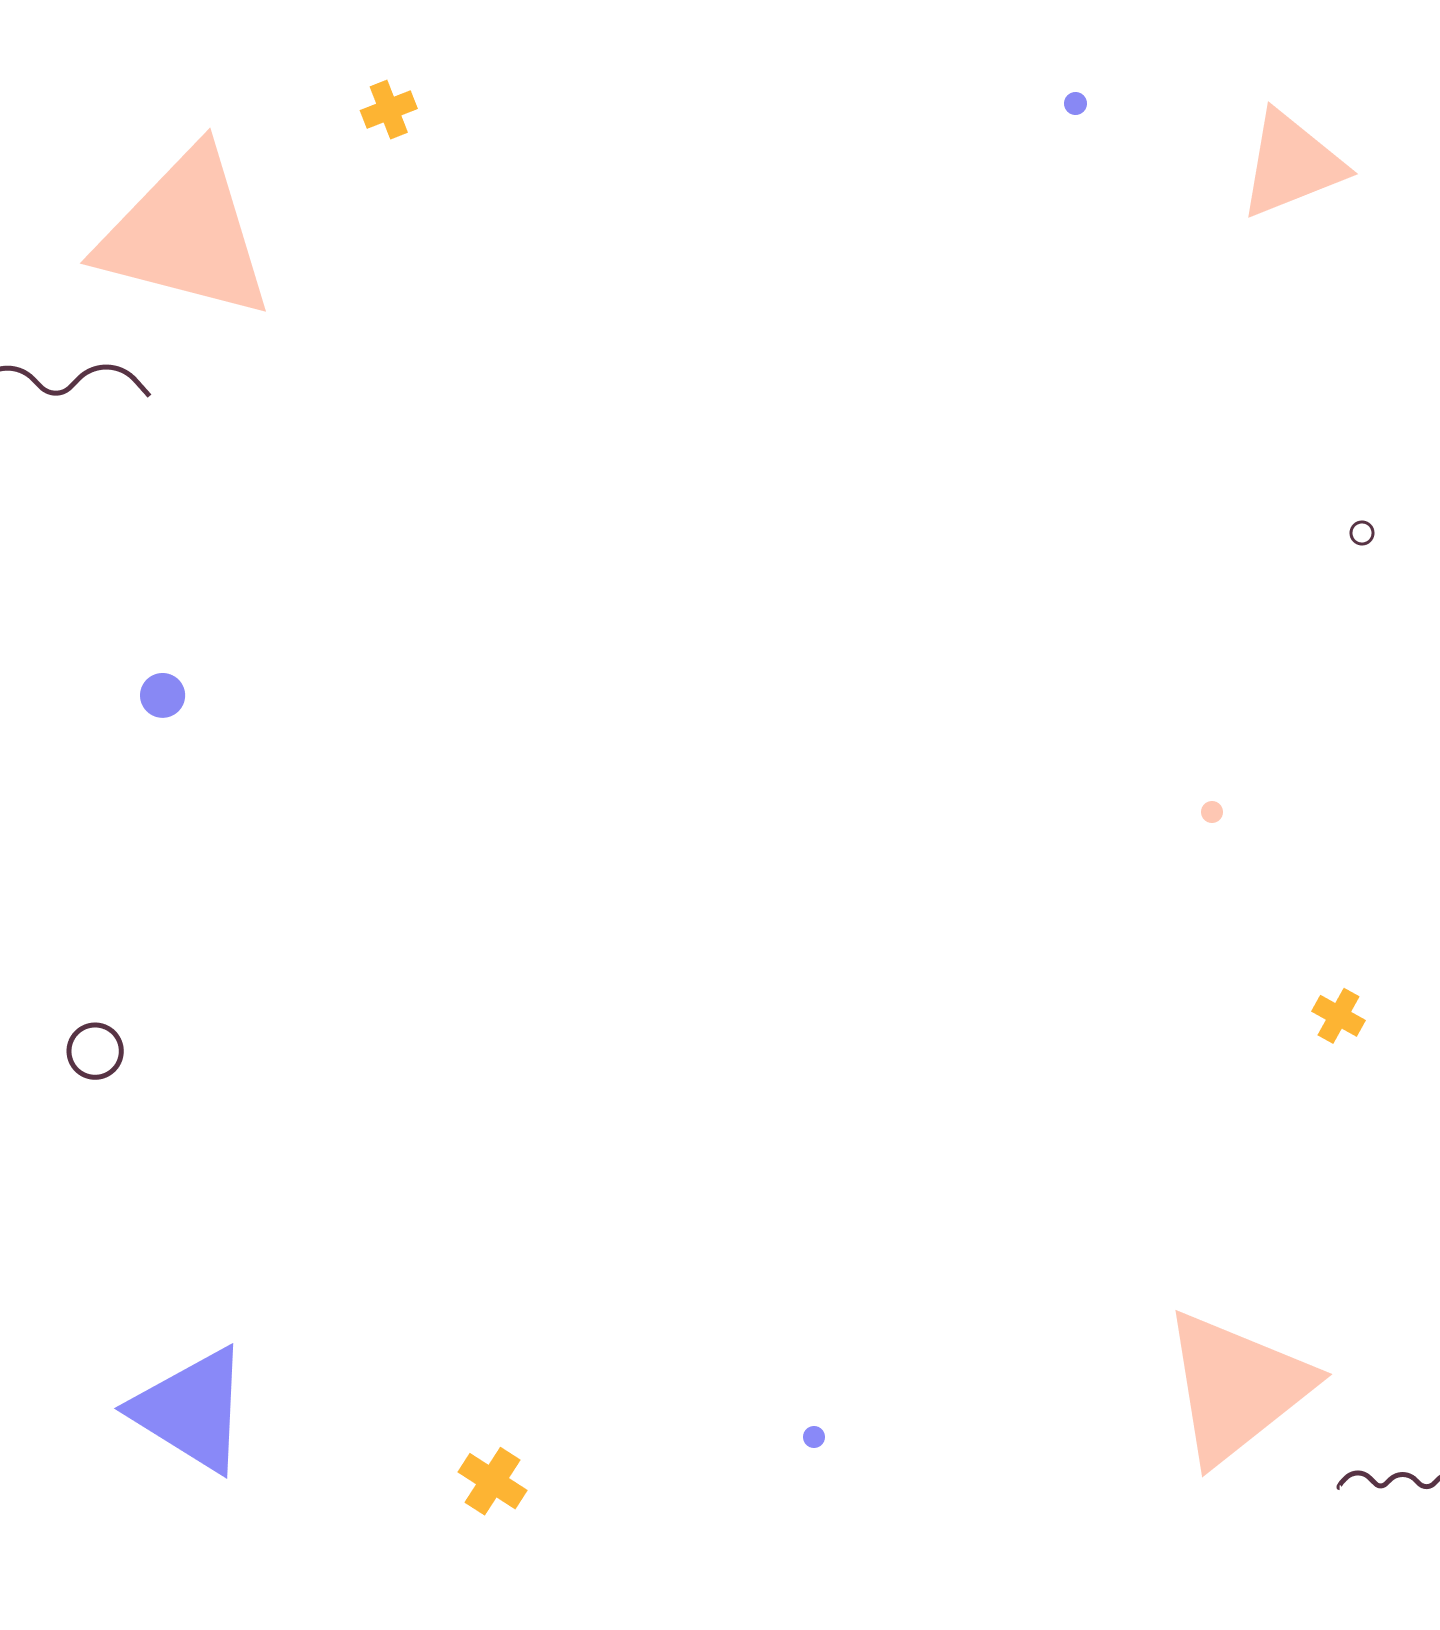
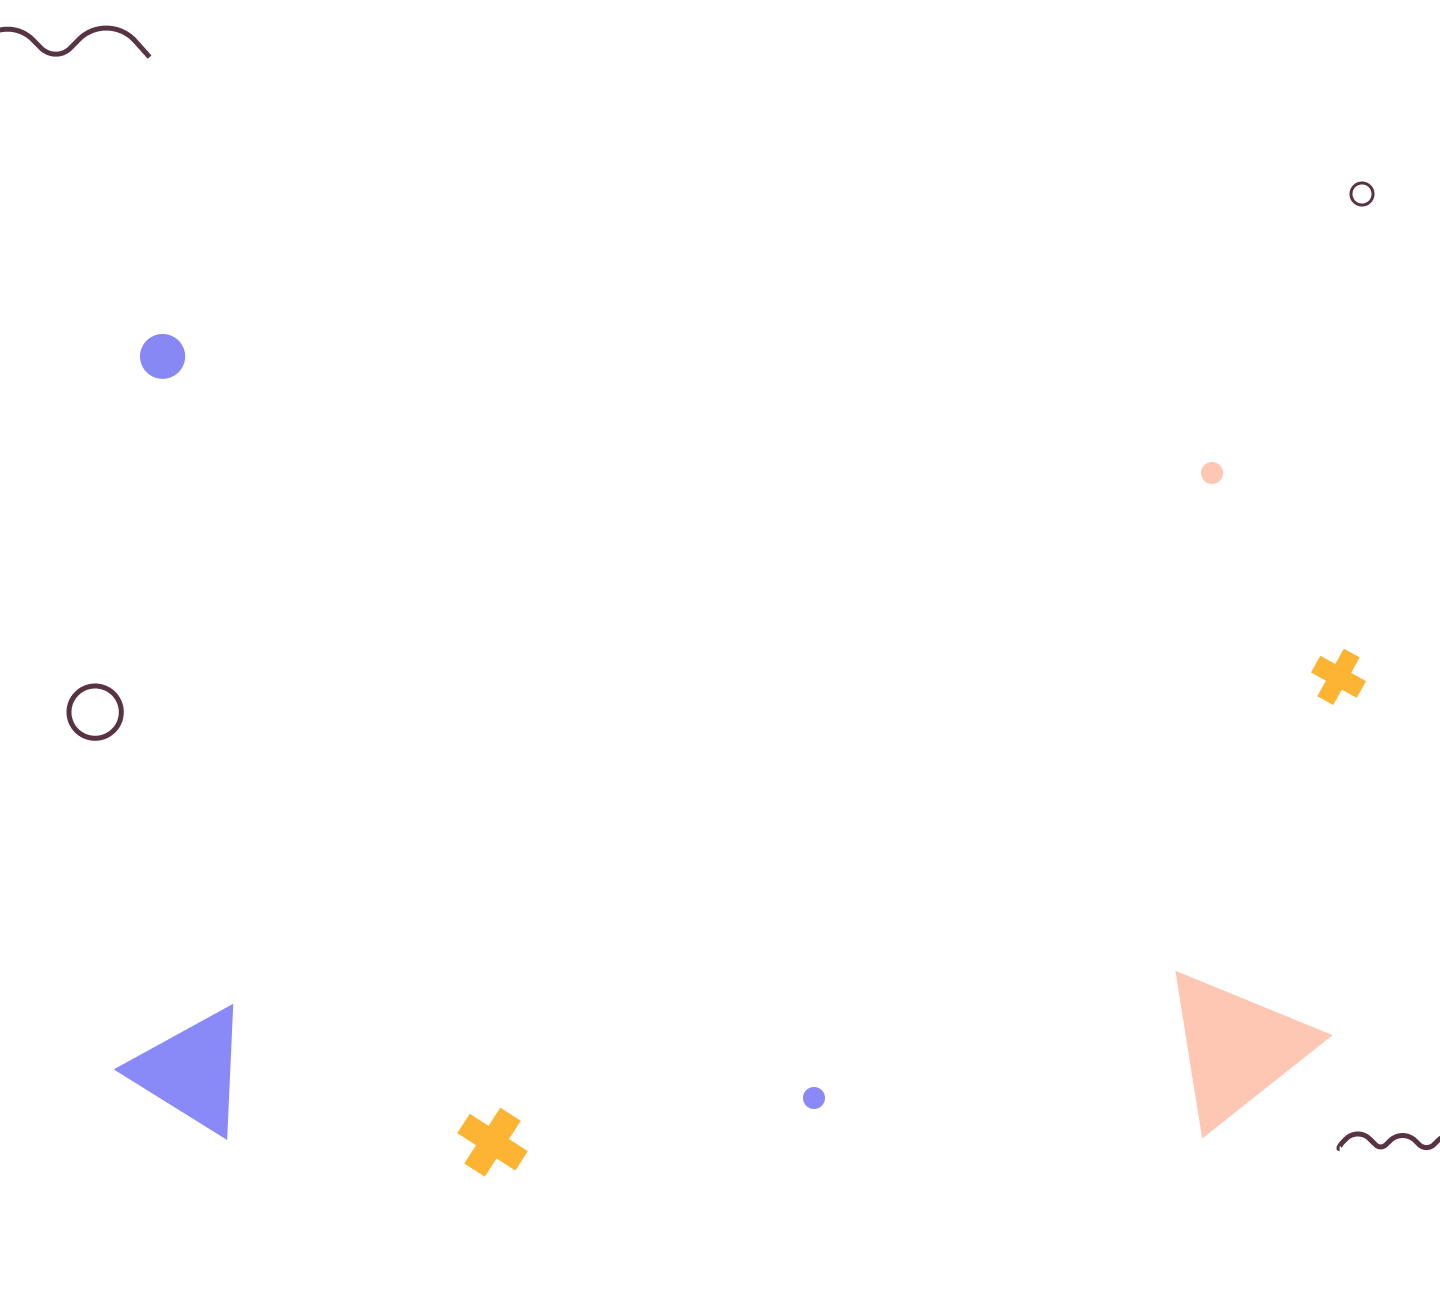
added routing

diff --git a/src/app/view/components/header/header.component.html b/src/app/view/components/header/header.component.html
@@ -12,17 +12,10 @@
 
         </div>
 
-        <!-- <nav class="header__left-menu">
-            <a href="" class="left-menu__item">Приставки</a>
-            <a href="" class="left-menu__item">Игры</a>
-            <a href="" class="left-menu__item">Доставка и оплата</a>
-            <a href="" class="left-menu__item">О нас</a>
-        </nav> -->
-
         <p-menubar [model]="menuItems" [autoDisplay]="true"></p-menubar>
 
 
-        <a href="" class="header__logo"><img src="../../assets/images/logo.svg" alt="" class="logo-icon"></a>
+        <a [routerLink]="['/']" class="header__logo"><img src="../../assets/images/logo.svg" alt="" class="logo-icon"></a>
         <nav class="header__right-menu">
             <div href="" class="right-menu__item">
                 <a href="tel:343-342" class="phone-link">
@@ -43,8 +36,8 @@
                     </svg> 343-342
                 </a>
             </div>
-            <div href="" class="right-menu__item">
-                <a href="" class="cart-link">
+            <div class="right-menu__item">
+                <a [routerLink]="['cart']" class="cart-link">
                     <svg class="cart-icon" width="26" height="30" viewBox="0 0 26 30" fill="none" xmlns="http://www.w3.org/2000/svg">
                         <path
                             d="M25.9922 25.9617L24.1234 6.56767C24.0845 6.15808 23.7107 5.8491 23.2668 5.8491H19.389C19.3579 2.61557 16.5001 0 12.9961 0C9.49206 0 6.63432 2.61557 6.60318 5.8491H2.72537C2.28152 5.8491 1.90776 6.16527 1.86882 6.56767L0 25.9617C0 25.9832 0 26.0048 0 26.0335C0 28.218 2.17251 30 4.85115 30H21.1488C23.8197 30 26 28.2252 26 26.0335C26 26.0048 26 25.9832 25.9922 25.9617ZM13.0039 1.58084C15.5657 1.58084 17.6526 3.49222 17.6837 5.8491H8.31626C8.34741 3.49222 10.4343 1.58084 13.0039 1.58084ZM21.1488 28.412H4.85115C3.13807 28.412 1.73645 27.3629 1.71309 26.0623L3.50404 7.42994H6.59539V9.98802C6.59539 10.4263 6.97694 10.7784 7.45193 10.7784C7.92693 10.7784 8.30848 10.4263 8.30848 9.98802V7.42994H17.676V9.98802C17.676 10.4263 18.0575 10.7784 18.5325 10.7784C19.0075 10.7784 19.389 10.4263 19.389 9.98802V7.42994H22.4804L24.2713 26.0623C24.2636 27.3629 22.8619 28.412 21.1488 28.412Z"
@@ -52,8 +45,8 @@
                     </svg>
                 </a>
             </div>
-            <div href="" class="right-menu__item">
-                <a href="" class="user-link">
+            <div class="right-menu__item">
+                <a [routerLink]="['login']" class="user-link">
                     <svg class="user-icon" width="30" height="30" viewBox="0 0 30 30" fill="none" xmlns="http://www.w3.org/2000/svg">
                         <path
                             d="M30 15.0001C30 6.72899 23.271 0 15.0001 0C11.1102 0 7.4227 1.48257 4.61684 4.17453C4.26259 4.51444 4.25097 5.07706 4.59077 5.43132C4.93057 5.78557 5.4933 5.79707 5.84756 5.45739C8.32084 3.08461 11.5713 1.77781 15.0001 1.77781C22.2908 1.77781 28.2223 7.70928 28.2223 15.0001C28.2223 18.3157 26.9886 21.4874 24.7484 23.9312C22.2485 26.6582 18.6954 28.2223 15.0001 28.2223C11.4548 28.2223 8.04019 26.7825 5.5611 24.2573C5.57579 24.1938 5.59215 24.131 5.60827 24.0681C5.62107 24.0179 5.63292 23.9674 5.64655 23.9177C5.66741 23.8418 5.69064 23.767 5.71351 23.6921C5.72714 23.6477 5.73947 23.6026 5.75369 23.5585C5.78142 23.4726 5.81165 23.388 5.84199 23.3034C5.85349 23.2714 5.8638 23.2388 5.87565 23.2069C5.96205 22.9743 6.05817 22.7469 6.1633 22.525C6.17906 22.4919 6.19625 22.4596 6.21237 22.4267C6.25005 22.3496 6.28774 22.2726 6.32769 22.197C6.34878 22.157 6.37142 22.118 6.39323 22.0785C6.43009 22.0113 6.46659 21.9438 6.50511 21.8778C6.52988 21.8352 6.55631 21.7938 6.58179 21.7517C6.61925 21.6899 6.65646 21.6281 6.69534 21.5674C6.72307 21.5243 6.75211 21.4823 6.78055 21.4397C6.81943 21.3817 6.85795 21.3234 6.89812 21.2662C6.92835 21.2232 6.95987 21.1814 6.99093 21.1389C7.03122 21.0839 7.07128 21.0288 7.11276 20.9749C7.14536 20.9325 7.17925 20.891 7.21268 20.8493C7.25451 20.797 7.29623 20.7445 7.33926 20.6933C7.37398 20.6518 7.40978 20.6114 7.44533 20.5706C7.48883 20.5207 7.53233 20.4708 7.57701 20.4219C7.61375 20.3816 7.65144 20.3424 7.68889 20.3028C7.73417 20.2551 7.77944 20.2075 7.82566 20.1609C7.8643 20.122 7.90365 20.0841 7.94288 20.0461C7.98982 20.0007 8.03687 19.9553 8.08487 19.911C8.12528 19.8736 8.16629 19.837 8.2073 19.8005C8.25578 19.7572 8.30461 19.7143 8.35403 19.6723C8.3961 19.6365 8.43877 19.6013 8.48168 19.5663C8.53181 19.5254 8.58218 19.4848 8.63314 19.4449C8.67688 19.4108 8.72109 19.3773 8.76541 19.344C8.81709 19.3053 8.869 19.267 8.9215 19.2296C8.9669 19.1971 9.01253 19.1652 9.05851 19.1337C9.11161 19.0973 9.16506 19.0615 9.21887 19.0263C9.26569 18.9957 9.31274 18.9656 9.36015 18.9359C9.41467 18.9018 9.46966 18.8683 9.52501 18.8354C9.57313 18.8068 9.62149 18.7784 9.6702 18.7508C9.72614 18.7189 9.78267 18.6879 9.83944 18.6574C9.88887 18.6307 9.93841 18.6043 9.98831 18.5785C10.0457 18.549 10.1036 18.5206 10.1617 18.4924C10.2123 18.4678 10.2629 18.4433 10.314 18.4197C10.3729 18.3926 10.4323 18.3665 10.4918 18.3407C10.5433 18.3183 10.5948 18.2959 10.6467 18.2745C10.7071 18.2498 10.7681 18.2262 10.8291 18.2028C10.8815 18.1827 10.9336 18.1624 10.9865 18.1433C11.0484 18.1209 11.1109 18.1001 11.1734 18.0791C11.2264 18.0613 11.2792 18.0432 11.3327 18.0264C11.3961 18.0064 11.4602 17.9881 11.5243 17.9697C11.5778 17.9543 11.6311 17.9383 11.685 17.924C11.7503 17.9065 11.8162 17.8909 11.8821 17.8749C11.9357 17.862 11.9892 17.8483 12.0431 17.8364C12.1104 17.8214 12.1786 17.8085 12.2465 17.7952C12.2998 17.7848 12.3529 17.7734 12.4066 17.764C12.4766 17.7516 12.5474 17.7414 12.6179 17.7308C12.6703 17.7228 12.7223 17.7139 12.775 17.7071C12.8493 17.6972 12.9244 17.6899 12.9993 17.6819C13.0489 17.6767 13.0982 17.6703 13.1479 17.6659C13.2311 17.6586 13.3152 17.6541 13.399 17.6491C13.441 17.6466 13.4829 17.6428 13.5251 17.6409C13.6514 17.6354 13.7784 17.6324 13.906 17.6324H16.0942C18.6626 17.6324 21.0734 18.7713 22.7085 20.7571C23.0205 21.136 23.5808 21.1903 23.9597 20.8782C24.3386 20.5661 24.3929 20.006 24.0809 19.627C22.6872 17.9345 20.8263 16.7525 18.7614 16.2032C19.9366 15.162 20.6792 13.6431 20.6792 11.9534C20.6792 8.82195 18.1316 6.27423 15.0001 6.27423C11.8685 6.27423 9.32092 8.82183 9.32092 11.9534C9.32092 13.6431 10.0636 15.1618 11.2386 16.203C11.2094 16.2109 11.18 16.2182 11.1509 16.2262C11.029 16.2597 10.9081 16.2956 10.7881 16.3335C10.7734 16.3382 10.7583 16.3422 10.7436 16.3468C10.609 16.3899 10.4758 16.4361 10.3434 16.4844C10.3021 16.4995 10.2616 16.5161 10.2206 16.5317C10.1299 16.5662 10.0394 16.6012 9.94991 16.6382C9.90024 16.6588 9.8513 16.6804 9.80199 16.7018C9.72199 16.7364 9.64211 16.7713 9.56317 16.8078C9.51162 16.8317 9.46065 16.8562 9.40957 16.8809C9.33348 16.9176 9.25798 16.9551 9.18284 16.9936C9.13211 17.0195 9.08151 17.0458 9.03125 17.0727C8.95599 17.1129 8.88144 17.1543 8.80725 17.1964C8.75937 17.2235 8.71137 17.2504 8.66396 17.2783C8.58597 17.3241 8.50905 17.3715 8.43225 17.4194C8.39041 17.4455 8.34822 17.4709 8.30674 17.4975C8.21145 17.5588 8.11746 17.6222 8.02431 17.6866C8.00297 17.7013 7.98116 17.7151 7.95995 17.7301C7.84617 17.8099 7.73417 17.8922 7.62371 17.9766C7.5917 18.001 7.56065 18.0267 7.52889 18.0515C7.45114 18.1124 7.37363 18.1737 7.29754 18.2367C7.25712 18.2703 7.21754 18.3049 7.17771 18.339C7.11158 18.3955 7.0458 18.4524 6.98121 18.5106C6.93949 18.5482 6.89848 18.5864 6.85735 18.6247C6.79596 18.6818 6.73504 18.7395 6.67495 18.7982C6.63418 18.838 6.59365 18.878 6.55347 18.9186C6.49409 18.9786 6.43566 19.0394 6.37782 19.1007C6.33954 19.1413 6.30126 19.1816 6.26368 19.2228C6.20383 19.2884 6.14528 19.3552 6.08709 19.4223C6.05378 19.4607 6.01989 19.4986 5.98706 19.5376C5.91843 19.6192 5.85147 19.7025 5.78534 19.7863C5.76495 19.8121 5.74374 19.8371 5.72359 19.8632C5.63813 19.9734 5.55493 20.0855 5.47386 20.1994C5.45229 20.2298 5.43191 20.2609 5.41069 20.2915C5.35191 20.376 5.29359 20.461 5.2373 20.5474C5.20885 20.5911 5.18159 20.6356 5.15374 20.6798C5.10645 20.7548 5.05952 20.8301 5.01412 20.9064C4.98509 20.9551 4.957 21.0044 4.92879 21.0537C4.88648 21.1276 4.84488 21.2019 4.80434 21.2769C4.77673 21.328 4.74959 21.3794 4.7228 21.431C4.68357 21.5066 4.64541 21.5829 4.60807 21.6596C4.58283 21.7113 4.5577 21.7628 4.53329 21.815C4.4956 21.8958 4.45945 21.9775 4.42377 22.0595C4.40244 22.1086 4.38051 22.1572 4.35977 22.2067C4.31983 22.3023 4.28214 22.3992 4.24493 22.4964C4.23082 22.5331 4.21577 22.5694 4.20214 22.6063C4.20013 22.6118 4.19787 22.617 4.19586 22.6225C2.62724 20.403 1.77781 17.751 1.77781 15.0001C1.77781 14.5091 1.37981 14.1112 0.888903 14.1112C0.397991 14.1112 0 14.5091 0 15.0001C0 18.7617 1.39973 22.3601 3.94116 25.1325C6.77688 28.2259 10.8078 30 14.9999 30C19.1924 30 23.2231 28.2259 26.0588 25.1324C26.0591 25.1321 26.0593 25.1318 26.0596 25.1315C28.6006 22.3592 30 18.7612 30 15.0001ZM15.0001 8.05204C17.1512 8.05204 18.9014 9.80211 18.9014 11.9534C18.9014 14.1046 17.1513 15.8547 15.0001 15.8547C12.8488 15.8547 11.0987 14.1046 11.0987 11.9534C11.0987 9.80211 12.8488 8.05204 15.0001 8.05204Z"

diff --git a/src/app/app-routing.module.ts b/src/app/app-routing.module.ts
@@ -1,7 +1,61 @@
 import { NgModule } from '@angular/core';
 import { Routes, RouterModule } from '@angular/router';
 
+import { AboutPageComponent } from './view/components/about-page/about-page.component';
+import { AccountPageComponent } from './view/components/account-page/account-page.component';
+import { CartFormPageComponent } from './view/components/cart-form-page/cart-form-page.component';
+import { CartProductsPageComponent } from './view/components/cart-products-page/cart-products-page.component';
+import { DeliveryPageComponent } from './view/components/delivery-page/delivery-page.component';
+import { LoginPageComponent } from './view/components/login-page/login-page.component';
+import { MainPageComponent } from './view/components/main-page/main-page.component';
+import { ProductsPageComponent } from './view/components/products-page/products-page.component';
+import { RegistrationPageComponent } from './view/components/registration-page/registration-page.component';
+
 const routes: Routes = [
+  {
+    path: '',
+    component: MainPageComponent
+  },
+  {
+    path: 'games/:category',
+    component: ProductsPageComponent
+  },
+  {
+    path: 'consoles/:category',
+    component: ProductsPageComponent
+  },
+  {
+    path: 'delivery',
+    component: DeliveryPageComponent
+  },
+  {
+    path: 'about',
+    component: AboutPageComponent
+  },
+  {
+    path: 'login',
+    component: LoginPageComponent
+  },
+  {
+    path: 'register',
+    component: RegistrationPageComponent
+  },
+  {
+    path: 'account',
+    component: AccountPageComponent
+  },
+  {
+    path: 'cart',
+    component: CartProductsPageComponent
+  },
+  {
+    path: 'checkout',
+    component: CartFormPageComponent
+  },
+  {
+    path: '**',
+    component: MainPageComponent
+  },
   
 ];
 

diff --git a/src/app/view/components/header/header.component.ts b/src/app/view/components/header/header.component.ts
@@ -21,23 +21,33 @@ export class HeaderComponent implements OnInit {
           label: 'Приставки',
           items: [{
                   label: 'Sega',
+                  routerLink: ['/consoles/sega']
               },
-              {label: 'Nintendo'}
+              {
+                label: 'Nintendo',
+                routerLink: ['/consoles/nintendo']
+              }
           ]
       },
       {
         label: 'Игры',
         items: [{
                 label: 'Sega',
+                routerLink: ['/games/sega']
             },
-            {label: 'Nintendo'}
+            {
+              label: 'Nintendo',
+              routerLink: ['/games/nintendo']
+            }
         ]
     },
     {
-      label: 'Доставка и оплата'
+      label: 'Доставка и оплата',
+      routerLink: ['/delivery']
     },
     {
-      label : 'О нас'
+      label : 'О нас',
+      routerLink: ['/about']
     }];
   }
 

diff --git a/src/app/view/components/delivery-page/delivery-page.component.scss b/src/app/view/components/delivery-page/delivery-page.component.scss
@@ -36,10 +36,6 @@
     background-color: #fdb433;
 }
 
-::ng-deep .pages-wrapper {
-    background-position: top -400px center;
-}
-
 .delivery__body {
     width: 1040px;
     margin: 0 auto;

diff --git a/src/app/app.component.html b/src/app/app.component.html
@@ -1,5 +1,5 @@
 <rg-header></rg-header>
 <div class="pages-wrapper">
-    <rg-registration-page></rg-registration-page>
+    <router-outlet></router-outlet>
 </div>
 <rg-footer></rg-footer>

diff --git a/src/app/view/components/registration-page/registration-page.component.scss b/src/app/view/components/registration-page/registration-page.component.scss
@@ -1,7 +1,3 @@
-::ng-deep .pages-wrapper {
-    background-position: top 1000px center;
-}
-
 .registration-page {
     min-height: 80%;
 }

diff --git a/src/app/view/components/about-page/about-page.component.scss b/src/app/view/components/about-page/about-page.component.scss
@@ -1,7 +1,3 @@
-::ng-deep .pages-wrapper {
-    background-position: top 70px center;
-}
-
 .about-page {}
 
 .about-page__container {

diff --git a/src/app/view/components/account-page/account-page.component.scss b/src/app/view/components/account-page/account-page.component.scss
@@ -1,7 +1,3 @@
-::ng-deep .pages-wrapper {
-    background-position: top 70px center;
-}
-
 .account-page {
     min-height: 97%;
 }

diff --git a/src/app/view/components/login-page/login-page.component.scss b/src/app/view/components/login-page/login-page.component.scss
@@ -1,7 +1,3 @@
-::ng-deep .pages-wrapper {
-    background-position: top 1000px center;
-}
-
 .login-page {
     min-height: 80%;
 }
